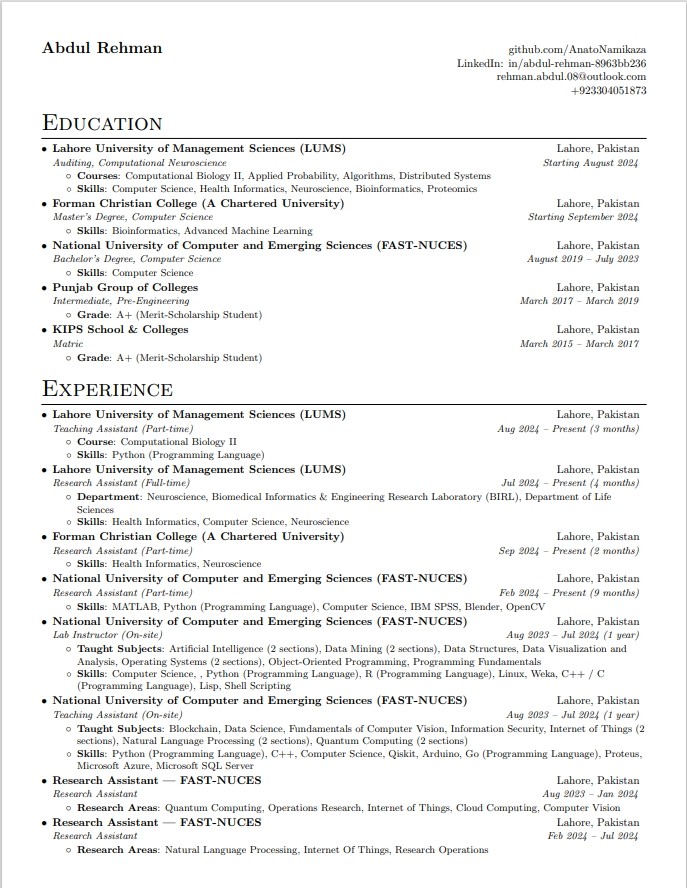
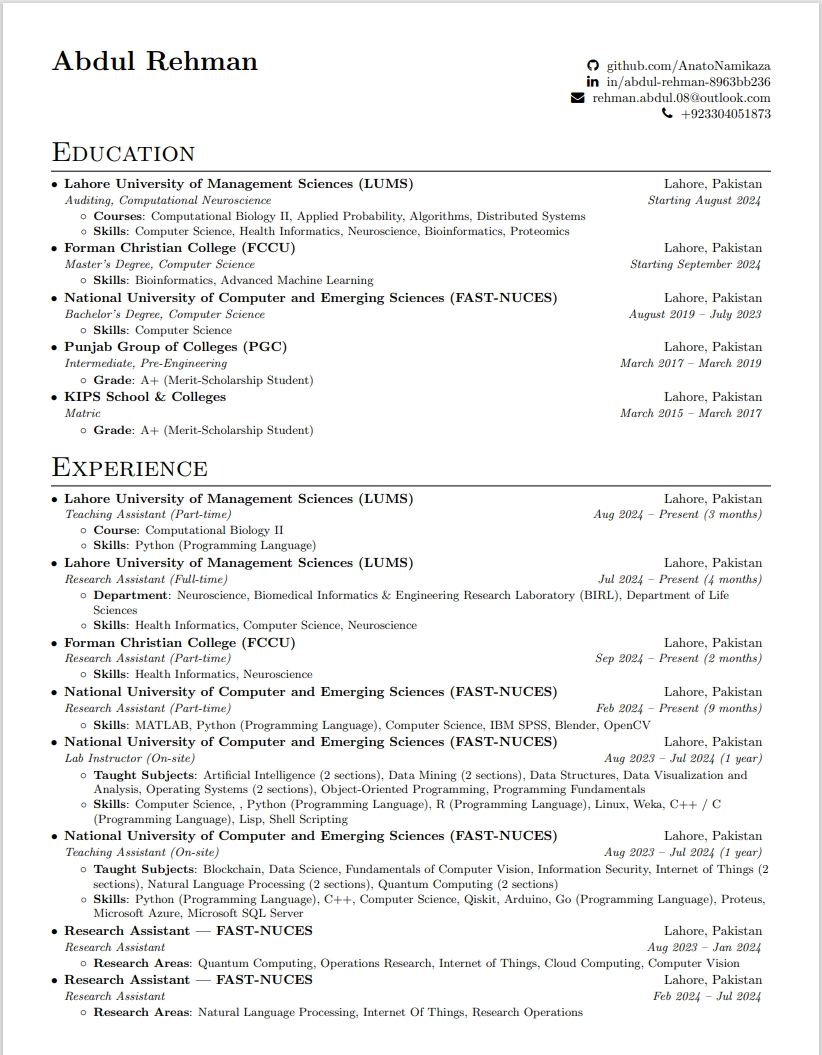
up

diff --git a/resume.tex b/resume.tex
@@ -11,6 +11,7 @@
 \usepackage{fancyhdr}
 \usepackage[english]{babel}
 \usepackage{tabularx}
+\usepackage{fontawesome} 
 \input{glyphtounicode}
 
 \pagestyle{fancy}
@@ -86,15 +87,14 @@
 
 \begin{document}
 
-
 %----------HEADING-----------------
 \begin{tabular*}{\textwidth}{l@{\extracolsep{\fill}}r}
   \textbf{\href{https://www.linkedin.com/in/abdul-rehman-8963bb236
-/}{\Large Abdul Rehman}} 
-  & \href{https://github.com/AnatoNamikaza}{github.com/AnatoNamikaza}\\
-  & \href{https://www.linkedin.com/in/abdul-rehman-8963bb236/}{LinkedIn: in/abdul-rehman-8963bb236}\\
-  & \href{mailto:rehman.abdul.08@outlook.com}{rehman.abdul.08@outlook.com}\\
-  {} & +923304051873 \\ 
+/}{\huge Abdul Rehman}} 
+  & \href{https://github.com/AnatoNamikaza}{\faGithub \hspace{1mm} github.com/AnatoNamikaza}\\
+  {} & \href{https://www.linkedin.com/in/abdul-rehman-8963bb236/}{\faLinkedin \hspace{1mm} in/abdul-rehman-8963bb236}\\
+  {} & \href{mailto:rehman.abdul.08@outlook.com}{\faEnvelope \hspace{1mm} rehman.abdul.08@outlook.com}\\
+  {} & \faPhone \hspace{1mm} +923304051873 \\ 
 \end{tabular*}
 
 %-----------EDUCATION-----------------
@@ -111,7 +111,7 @@
       \resumeItemListEnd
 
     \resumeSubheading
-      {Forman Christian College (A Chartered University)}{Lahore, Pakistan}
+      {Forman Christian College (FCCU)}{Lahore, Pakistan}
       {Master's Degree, Computer Science}{Starting September 2024}
       \resumeItemListStart
         \resumeItem{Skills}
@@ -127,7 +127,7 @@
       \resumeItemListEnd
 
     \resumeSubheading
-      {Punjab Group of Colleges}{Lahore, Pakistan}
+      {Punjab Group of Colleges (PGC)}{Lahore, Pakistan}
       {Intermediate, Pre-Engineering}{March 2017 -- March 2019}
       \resumeItemListStart
         \resumeItem{Grade}
@@ -170,7 +170,7 @@
 \resumeItemListEnd
 
 \resumeSubheading
-{Forman Christian College (A Chartered University)}{Lahore, Pakistan}
+{Forman Christian College (FCCU)}{Lahore, Pakistan}
 {Research Assistant (Part-time)}{Sep 2024 -- Present (2 months)}
 \resumeItemListStart
   \resumeItem{Skills}
